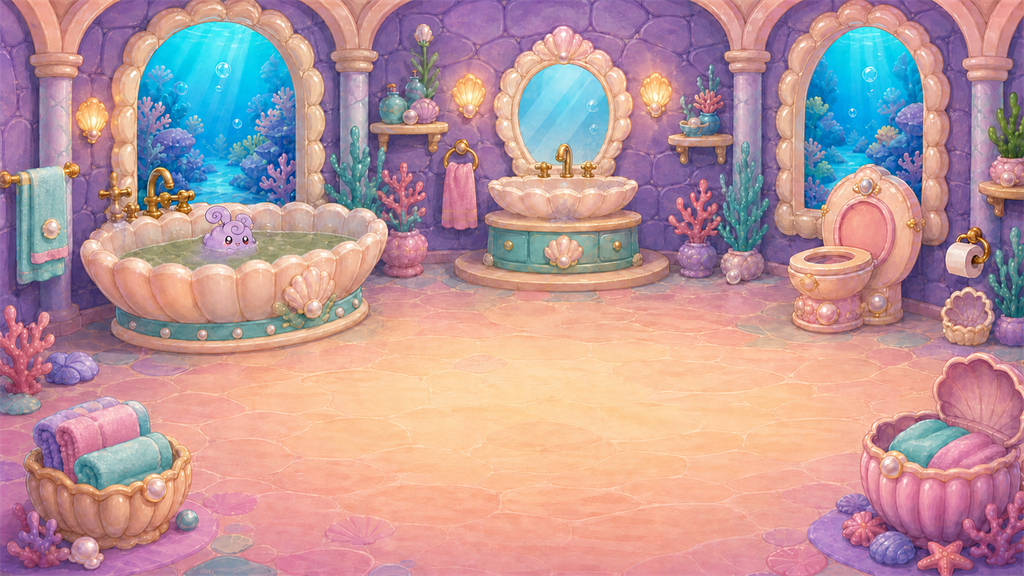
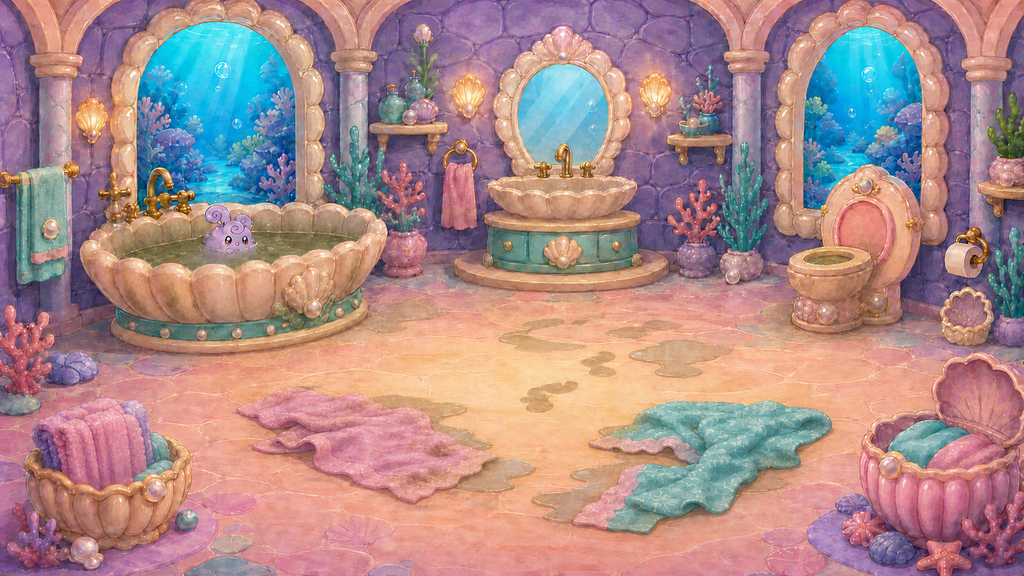
feat: make Day One bathroom visibly dirty

diff --git a/assets_src/castle/day_one_bathroom_dirty/PROVENANCE.md b/assets_src/castle/day_one_bathroom_dirty/PROVENANCE.md
@@ -7,6 +7,78 @@ pixels.
 
 ## Full dirty bathroom state
 
+### Final room-readable dirty state (v3)
+
+- Selected native master: `room_bubble_bath_dirty_full_master_v3.png`
+- Native dimensions: 1672x941 RGB
[1 lines of base64/hex data omitted]
+- Runtime derivative:
+  `assets/flats/castle/rooms/room_bubble_bath_dirty_day_one.png`
+- Runtime dimensions: 1024x576 RGBA
[1 lines of base64/hex data omitted]
+- Generation result identifier:
+  `exec-4373d1c2-bbc2-4a97-8efe-b0ab09d77fb4.png`
+- Generation method: OpenAI built-in image generation, precise-object edit.
+- Reference role: v2 was the sole edit target. It remained authoritative for
+  every room, character, mess, palette, lighting, and composition decision.
+- Derivation: one whole-canvas Lanczos resize from 1672x941 to 1024x576,
+  followed by RGB-to-RGBA format normalization. No local masks, compositing,
+  fixture extraction, or subject translation.
+- Final prompt: "Change only the toilet grime so it is unmistakably dirty at
+  small mobile scale. Strengthen the warm olive-brown scum ring directly under
+  the inside rim of the open toilet bowl, and add exactly two short matching
+  soft grime streaks on the front/side of the toilet base. Keep it friendly
+  and mild for a four-year-old. Preserve the exact composition, architecture,
+  lighting, palette, tub, dirty water, single submerged lavender dust bunny,
+  sink marks, footprints, puddles, unfolded towels, baskets, decorations, and
+  open play space. Do not add, remove, move, resize, or redesign anything else.
+  No Roshan, UI, text, tools, extra creatures, trash, insects, mold, feces,
+  frightening imagery, or watermark. Return a complete flattened full-frame
+  image in the same polished 2D storybook style."
+- Review: targeted follow-up to the v2 Mobile audit. The clearer warm olive
+  bowl ring separates intentional grime from the toilet's ordinary interior
+  shadow without making the preschool scene gross or frightening.
+
+### Enhanced room-readable dirty state (v2, superseded for runtime)
+
+- Selected native master: `room_bubble_bath_dirty_full_master_v2.png`
+- Native dimensions: 1672x941 RGB
[1 lines of base64/hex data omitted]
+- Runtime derivative:
+  `assets/flats/castle/rooms/room_bubble_bath_dirty_day_one.png`
+- Runtime dimensions: 1024x576 RGBA
[1 lines of base64/hex data omitted]
+- Generation result identifier:
+  `exec-f10cbaaa-977d-4997-bc51-814c49fdb3de.png`
+- Generation method: OpenAI built-in image generation, precise-object edit.
+- Reference roles: the v1 dirty plate was the edit target and authoritative
+  room composition. The approved clean Bubble Bathroom was supplied only to
+  preserve established fixture, palette, and towel design. The protected
+  clean image remains unchanged.
+- Derivation: one whole-canvas Lanczos resize from 1672x941 to 1024x576,
+  followed by RGB-to-RGBA format normalization. No local masks, fixture
+  extraction, compositing, subject translation, or destructive source edit.
+- Final prompt: "Make the v1 room read immediately as a dirty, untidy
+  bathroom while preserving its exact 16:9 composition and storybook style.
+  Keep the olive bathwater and exactly one lavender dust bunny submerged to
+  its shoulders behind the waterline and tub rim. Reuse the established pink
+  and aqua towel designs as three oversized unfolded or rumpled foreground
+  floor towels. Add gentle olive-gray toilet bowl/base grime, a stronger tub
+  soap-scum ring and contained shell smudges, cloudy sink marks, two small
+  vanity smears, two wet footprints, and a modest floor water trail. Keep the
+  mess child-friendly and targets visually separated. Preserve every room
+  fixture, object position, architecture, camera, lighting, and open play
+  space. No Roshan, UI, text, tools, duck, extra creatures, trash, insects,
+  mold, feces, frightening imagery, or watermark. Return one complete
+  flattened full-frame image."
+- Review: the earlier v1 remains preserved as provenance. Luna child-
+  readability review found that v1 read primarily as different-colored bath
+  water; v2 adds large familiar towel silhouettes and clear dirt on the tub,
+  sink, toilet, and floor while keeping the bunny readable and the imagery
+  friendly for a four-year-old.
+
+### Original dirty state (v1, superseded for runtime)
+
 - Selected native master: `room_bubble_bath_dirty_full_master_v1.png`
 - Native dimensions: 1672x941 RGB
[1 lines of base64/hex data omitted]

diff --git a/ASSET_LICENSES.md b/ASSET_LICENSES.md
@@ -2626,7 +2626,9 @@ generations and transparent source masters remain preserved.
 - `assets_src/castle/day_one_bathroom_dirty/magic_cleaner_source_v1.png` — selected project-original OpenAI built-in ImageGen cleaner-bottle cutout; license: project original; URL: none. Exact prompt, rejected attempts, and hash are recorded in the adjacent `PROVENANCE.md`.
 - `assets/castle/dirty_cleanup_2d/tools/tool_magic_cleaner_v1.png` — transparent 683×1024 whole-canvas Lanczos runtime derivative of the preserved cleaner-bottle generation. The approved `assets/castle/day_one_art_studio/magic_cleaning_brush.png` is reused unchanged as its paired brush.
 - `assets_src/castle/day_one_bathroom_dirty/room_bubble_bath_dirty_full_master_v1.png` — project-original full-room dirty-before generation made with the OpenAI built-in image-generation tool; license: project original; URL: none. It preserves the approved Bubble Bathroom composition while adding friendly dirty water, fixture grime, and one lavender dust bunny visibly inside the tub. Exact prompt, reference-role limits, result identifier, dimensions, SHA-256, and review decision are recorded in the adjacent `PROVENANCE.md`. The approved clean room remains unchanged.
-- `assets/flats/castle/rooms/room_bubble_bath_dirty_day_one.png` — 1024×576 whole-canvas high-quality bicubic RGBA runtime derivative of the preserved full-room native generation above. No protected original was modified or overwritten, and no local compositing, isolated fixture repair, or subject translation was used.
+- `assets_src/castle/day_one_bathroom_dirty/room_bubble_bath_dirty_full_master_v2.png` — project-original non-destructive enhancement generated with the OpenAI built-in image-generation tool from the v1 dirty plate, using the approved clean room only as protected appearance reference. It adds unfolded versions of the established towel graphics plus child-friendly toilet, tub, sink, and floor grime. Exact prompt, hashes, reference roles, and review are recorded in the adjacent `PROVENANCE.md`; v1 and the approved clean room remain preserved unchanged.
+- `assets_src/castle/day_one_bathroom_dirty/room_bubble_bath_dirty_full_master_v3.png` — project-original targeted OpenAI built-in ImageGen edit of the v2 dirty plate that strengthens only the child-friendly warm olive toilet grime for Mobile readability. Exact prompt, hash, reference-role limits, and review are recorded in the adjacent `PROVENANCE.md`; v1, v2, and the approved clean room remain preserved unchanged.
+- `assets/flats/castle/rooms/room_bubble_bath_dirty_day_one.png` — 1024×576 whole-canvas Lanczos RGBA runtime derivative of the preserved v3 full-room generation above. No protected original was modified or overwritten, and no local masking, compositing, isolated fixture repair, or subject translation was used.
 
 ## Day One Art Studio item art (2026-08-23)
 
